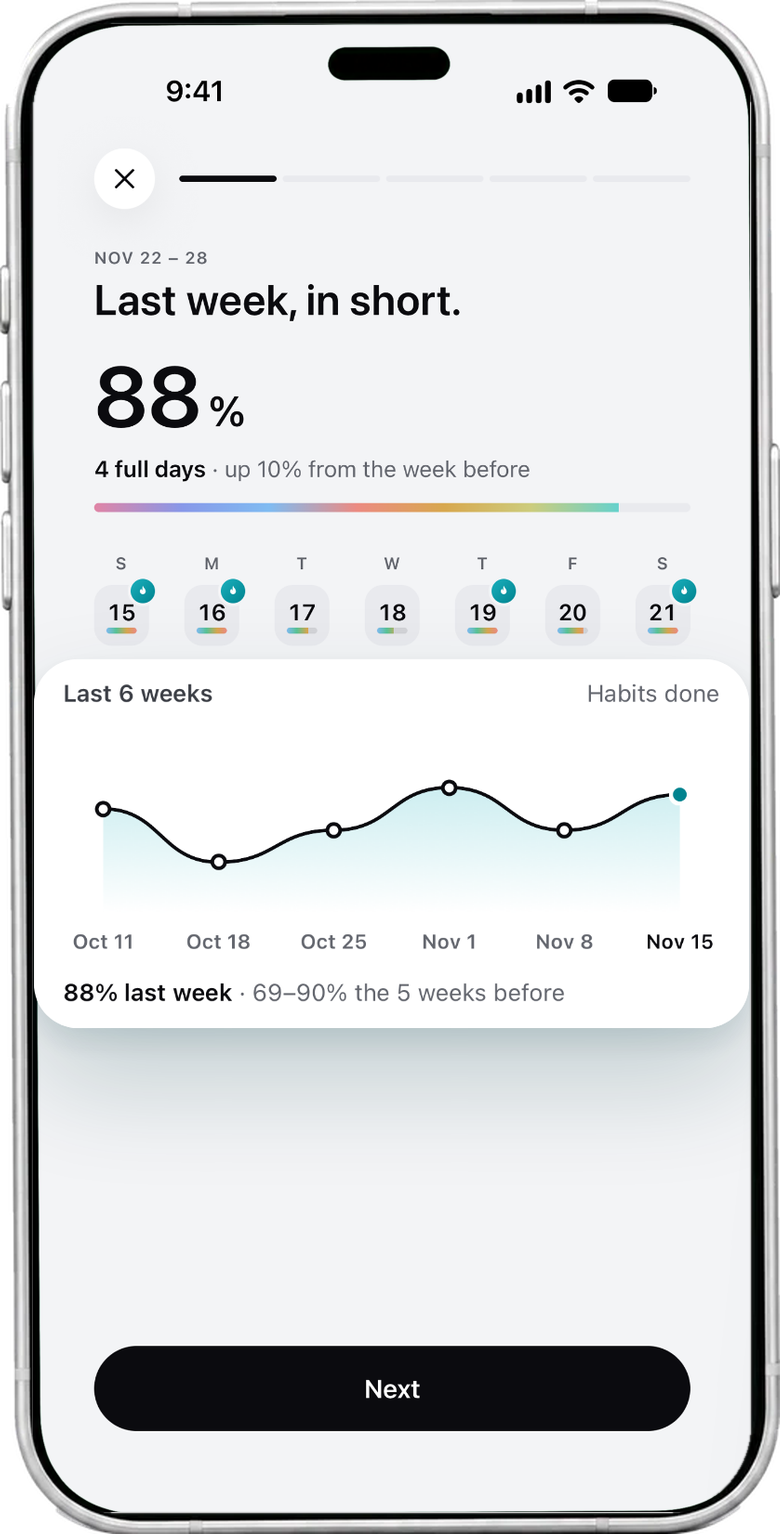
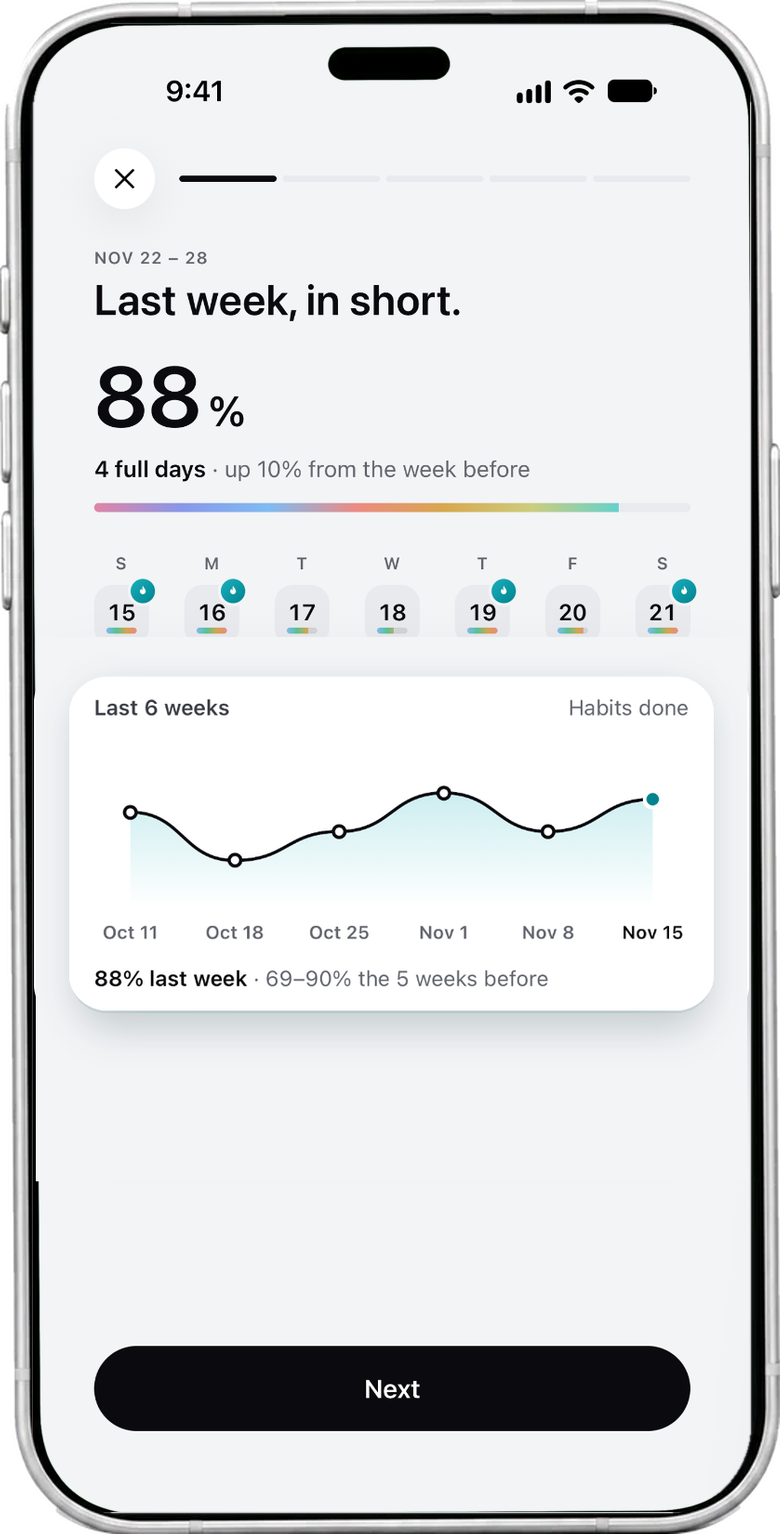
Final check fixes
- Glass blur was dropped by the CSS minifier in non-Safari browsers (only the
  -webkit- line survived); set cssTarget so both lines are kept
- Recap phone: the Last 6 weeks card sits inside the screen with a margin, as in
  the mockup (it touched the screen edges)
- Article dates in JSON-LD and Open Graph carry a time and zone (Rich Results Test)
- Contents: the last section is marked when the page is scrolled to the bottom
- 404 page no longer points og:url at /404/

diff --git a/src/lib/schema.ts b/src/lib/schema.ts
@@ -4,6 +4,9 @@ import { APP_STORE_URL, SITE_URL, SUPPORT_EMAIL, LEGAL_NAME } from '../config';
 const abs = (p: string) => new URL(p, SITE_URL).href;
 const ORG_ID = abs('/#organization');
 
+/** An article's day as a full timestamp: 10:00 UTC, when the daily rebuild publishes it. */
+export const isoTime = (d: Date) => `${d.toISOString().slice(0, 10)}T10:00:00Z`;
+
 export const organization = () => ({
   '@context': 'https://schema.org',
   '@type': 'Organization',
@@ -48,8 +51,8 @@ export const blogPosting = (o: { url: string; title: string; description: string
   mainEntityOfPage: abs(o.url),
   headline: o.title,
   description: o.description,
-  datePublished: o.date.toISOString().slice(0, 10),
-  dateModified: (o.updated ?? o.date).toISOString().slice(0, 10),
+  datePublished: isoTime(o.date),
+  dateModified: isoTime(o.updated ?? o.date),
   image: abs(o.image),
   articleSection: o.topic,
   inLanguage: 'en-US',

diff --git a/src/styles/home.css b/src/styles/home.css
@@ -75,7 +75,7 @@ h1 b,h2 b{font-weight:600;color:var(--teal2)}
 .lg{--mx:30%;--my:0%;position:relative;display:inline-flex;align-items:center;height:36px;padding:0 16px;border-radius:var(--r-full);isolation:isolate;overflow:hidden;
  font-size:12px;font-weight:600;letter-spacing:-.005em;color:#F4F5F7;
  background:linear-gradient(180deg,rgba(255,255,255,.14),rgba(255,255,255,.04));
- backdrop-filter:blur(14px) saturate(180%);-webkit-backdrop-filter:blur(14px) saturate(180%);
+ -webkit-backdrop-filter:blur(14px) saturate(180%);backdrop-filter:blur(14px) saturate(180%);
  box-shadow:inset 0 1px 0 rgba(255,255,255,.35),inset 0 -1px 0 rgba(255,255,255,.08),inset 0 0 0 1px rgba(255,255,255,.12),0 8px 24px rgba(0,0,0,.35),0 0 32px rgba(79,209,219,.18);
  animation:lgFloat 6s ease-in-out infinite,lgDrift 9s ease-in-out infinite}
 @property --mx{syntax:'<percentage>';inherits:false;initial-value:30%}

diff --git a/src/styles/blog.css b/src/styles/blog.css
@@ -18,7 +18,7 @@ button{font:inherit;border:0;background:none;color:inherit;cursor:pointer}
 
 /* header */
 .nav{position:sticky;top:0;z-index:10;transform:translateZ(0);display:flex;align-items:center;justify-content:space-between;height:56px;padding:0 24px;
- background:color-mix(in srgb,var(--bg2) 70%,transparent);backdrop-filter:blur(20px) saturate(1.4);-webkit-backdrop-filter:blur(20px) saturate(1.4)}
+ background:color-mix(in srgb,var(--bg2) 70%,transparent);-webkit-backdrop-filter:blur(20px) saturate(1.4);backdrop-filter:blur(20px) saturate(1.4)}
 .brand{font-weight:600;font-size:18px;letter-spacing:-.02em}
 .brand span{color:var(--fg2);font-weight:400;margin-left:8px}
 .get{height:32px;padding:0 16px;border-radius:var(--r-full);background:var(--fg);color:var(--bg);font-weight:600;font-size:14px;line-height:32px}

diff --git a/src/scripts/article.ts b/src/scripts/article.ts
@@ -35,6 +35,8 @@ const onScroll = () => {
   }
   let k = 0;
   heads.forEach((h, i) => { if (h && h.getBoundingClientRect().top < 140) k = i; });
+  // At the very bottom the last sections can't reach the top of the screen: mark the last one.
+  if (innerHeight + scrollY >= document.documentElement.scrollHeight - 2) k = heads.length - 1;
   links.forEach((a, i) => a.classList.toggle('on', i === k));
 };
 addEventListener('scroll', () => { if (!tick) { tick = true; requestAnimationFrame(onScroll); } }, { passive: true });

diff --git a/tools/make-phones.py b/tools/make-phones.py
@@ -48,6 +48,32 @@ def screen_fill(raw, w, h):
     return out
 
 
+def inset_card(scr):
+    """In the App Store art the "Last 6 weeks" card hangs over the phone's edges. Inside the
+    phone it would touch the screen edges, so shrink it to sit inside with a margin, as in the mockup."""
+    w, h = scr.size
+    y0, y1 = 682, 1084          # the card (rows of white) inside the 771 x 1602 screen crop
+    bg = (243, 244, 246)        # the recap screen's background
+    card = scr.crop((3, y0, w - 3, y1))
+    w = card.width
+    margin = 36
+    k = (w - 2 * margin) / w
+    cw, ch = round(w * k), round((y1 - y0) * k)
+    card = card.resize((cw, ch), Image.LANCZOS)
+    out = scr.copy()
+    ImageDraw.Draw(out).rectangle((3, 660, scr.width - 4, 1245), fill=bg)  # card + its old shadow
+    left = (scr.width - cw) // 2
+    top = y0 + ((y1 - y0) - ch) // 2
+    shadow = Image.new('L', scr.size, 0)
+    ImageDraw.Draw(shadow).rounded_rectangle((left + 8, top + 16, left + cw - 8, top + ch + 16), 40, fill=50)
+    shadow = shadow.filter(ImageFilter.GaussianBlur(20))
+    out.paste(Image.new('RGB', scr.size, (0, 40, 46)), (0, 0), shadow)
+    m = Image.new('L', (cw, ch), 0)
+    ImageDraw.Draw(m).rounded_rectangle((0, 0, cw - 1, ch - 1), 40, fill=255)
+    out.paste(card, (left, top), m)
+    return out
+
+
 def main(frames, raws, out):
     frame = Image.open(f'{frames}/frame.png').convert('RGBA')
     big = frame.resize((s(frame.width), s(frame.height)), Image.LANCZOS)
@@ -68,7 +94,7 @@ def main(frames, raws, out):
         img.save(f'{out}/{name}.png', optimize=True)
         print(name, img.size)
     path, box = FINAL_RECAP
-    shot = Image.open(f'{raws}/../{path}').convert('RGB').crop(box).resize((w, h), Image.LANCZOS)
+    shot = inset_card(Image.open(f'{raws}/../{path}').convert('RGB').crop(box)).resize((w, h), Image.LANCZOS)
     layer = Image.new('RGBA', big.size, (0, 0, 0, 0))
     layer.paste(shot, (x0, y0))
     img = big.copy()
